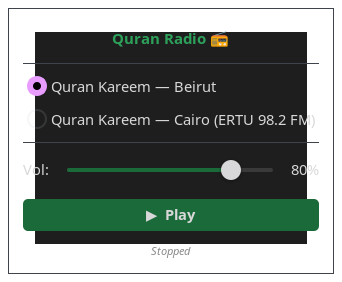
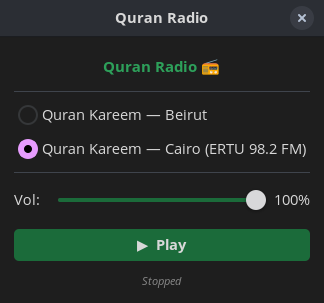
Update screenshots and screenshot capture script

diff --git a/take_screenshots.py b/take_screenshots.py
@@ -103,67 +103,57 @@ def save_offscreen(widget, path, padding=0):
 
 # ── Screenshot 1: Tray dropdown menu ──────────────────────────────────────────
 def make_tray_menu() -> Gtk.Widget:
-    """Simulate the SNI dbusmenu as a GTK widget."""
+    """Simulate the tray dropdown as a GTK widget matching the popup style."""
 
-    STATIONS = [
-        ("Quran Kareem — Beirut",           True),   # selected
-        ("Quran Kareem — Cairo (ERTU 98.2 FM)", False),
-    ]
+    vbox = Gtk.Box(orientation=Gtk.Orientation.VERTICAL, spacing=8)
+    vbox.set_border_width(14)
+
+    # Title — same as popup
+    title = Gtk.Label(label="Quran Radio 📻")
+    title.get_style_context().add_class("title")
+    title.set_halign(Gtk.Align.CENTER)
+    vbox.pack_start(title, False, False, 4)
+
+    vbox.pack_start(Gtk.Separator(), False, False, 2)
+
+    # Station radio buttons — identical to popup window
+    group = None
+    for name, active in [
+        ("Quran Kareem — Beirut",                True),
+        ("Quran Kareem — Cairo (ERTU 98.2 FM)",  False),
+    ]:
+        btn = Gtk.RadioButton.new_with_label_from_widget(group, name)
+        if group is None:
+            group = btn
+        btn.set_active(active)
+        vbox.pack_start(btn, False, False, 0)
+
+    vbox.pack_start(Gtk.Separator(), False, False, 2)
+
+    # Play button — same green style
+    play_btn = Gtk.Button(label="▶  Play")
+    play_btn.get_style_context().add_class("play-btn")
+    vbox.pack_start(play_btn, False, False, 4)
+
+    # Status label
+    status = Gtk.Label(label="Stopped")
+    status.get_style_context().add_class("status")
+    status.set_halign(Gtk.Align.CENTER)
+    vbox.pack_start(status, False, False, 0)
+
+    vbox.pack_start(Gtk.Separator(), False, False, 2)
+
+    # Secondary actions as plain labels
+    for text in ("Volume Controls…", "Quit"):
+        lbl = Gtk.Label(label=text)
+        lbl.set_halign(Gtk.Align.START)
+        lbl.get_style_context().add_class("menu-item")
+        vbox.pack_start(lbl, False, False, 2)
 
     frame = Gtk.Frame()
     frame.set_shadow_type(Gtk.ShadowType.ETCHED_IN)
-
-    vbox = Gtk.Box(orientation=Gtk.Orientation.VERTICAL, spacing=0)
-    vbox.set_border_width(6)
+    frame.set_size_request(300, -1)
     frame.add(vbox)
-
-    def add_sep():
-        sep = Gtk.Separator()
-        vbox.pack_start(sep, False, False, 4)
-
-    def add_row(label_text, is_active=False, indent=False, bold=False):
-        row = Gtk.Box(orientation=Gtk.Orientation.HORIZONTAL, spacing=8)
-        row.set_border_width(2)
-
-        # Radio bullet
-        dot = Gtk.Label(label="●" if is_active else "○")
-        dot.get_style_context().add_class("menu-item")
-        if is_active:
-            dot.get_style_context().add_class("active")
-        row.pack_start(dot, False, False, 4 if indent else 2)
-
-        lbl = Gtk.Label(label=label_text)
-        lbl.set_halign(Gtk.Align.START)
-        lbl.get_style_context().add_class("menu-item")
-        if is_active:
-            lbl.get_style_context().add_class("active")
-        row.pack_start(lbl, True, True, 0)
-        vbox.pack_start(row, False, False, 2)
-
-    def add_action(label_text, icon=""):
-        row = Gtk.Box(orientation=Gtk.Orientation.HORIZONTAL, spacing=8)
-        row.set_border_width(2)
-        if icon:
-            ico = Gtk.Label(label=icon)
-            ico.get_style_context().add_class("menu-item")
-            row.pack_start(ico, False, False, 6)
-        lbl = Gtk.Label(label=label_text)
-        lbl.set_halign(Gtk.Align.START)
-        lbl.get_style_context().add_class("menu-item")
-        row.pack_start(lbl, True, True, 0)
-        vbox.pack_start(row, False, False, 2)
-
-    # Stations
-    for name, active in STATIONS:
-        add_row(name, is_active=active)
-
-    add_sep()
-    add_action("▶  Play", "")
-    add_sep()
-    add_action("Volume Controls…")
-    add_sep()
-    add_action("Quit")
-
     return frame
 
 
